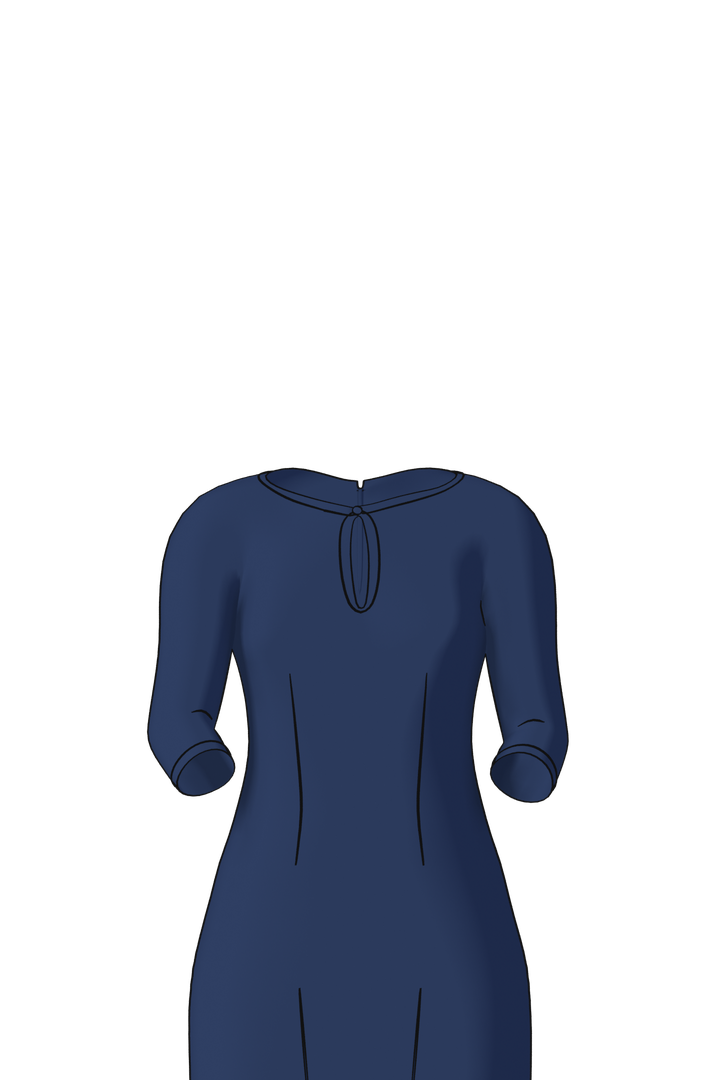
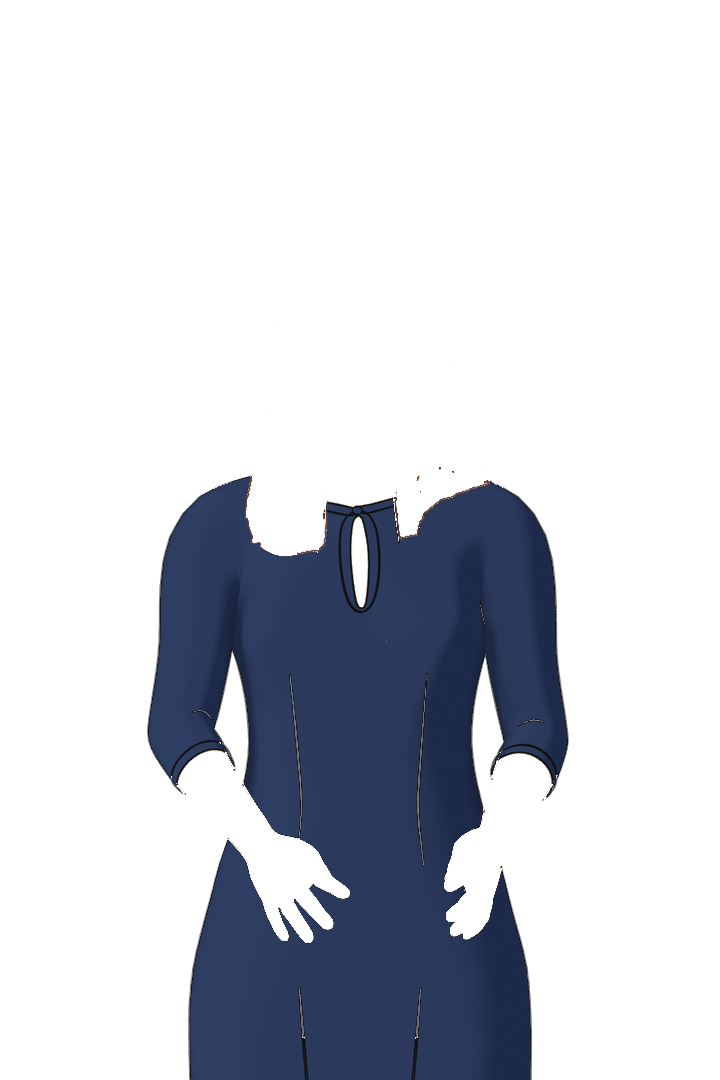
fix(cast): occlusion-key outfit plates too - garments wear under the body, not over it
Isolated garment renders carried pixels the body should cover (collar
backs, regions behind the arms) so outfits pasted onto the skin. Outfits
and male pieces now bake full.minus.rest like hair/hands/watches, with a
visibility swap for the hidden dress_01 and suit alternates so each look
bakes as the scene actually wearing it. Plate version bumped to v4.

diff --git a/src/studio-v2/cast/spec.ts b/src/studio-v2/cast/spec.ts
@@ -115,7 +115,7 @@ export const DEFAULT_SPEC: Record<CastCharacter, CastSpec> = {
 };
 
 // Bump when the plate set is re-baked so cached copies refresh.
-const PLATE_V = "v3";
+const PLATE_V = "v4";
 const P = "/cast";
 const plate = (name: string) => `${P}/${name}.png?v=${PLATE_V}`;
 const prefix = (c: CastCharacter) => (c === "female" ? "fem" : "male");
